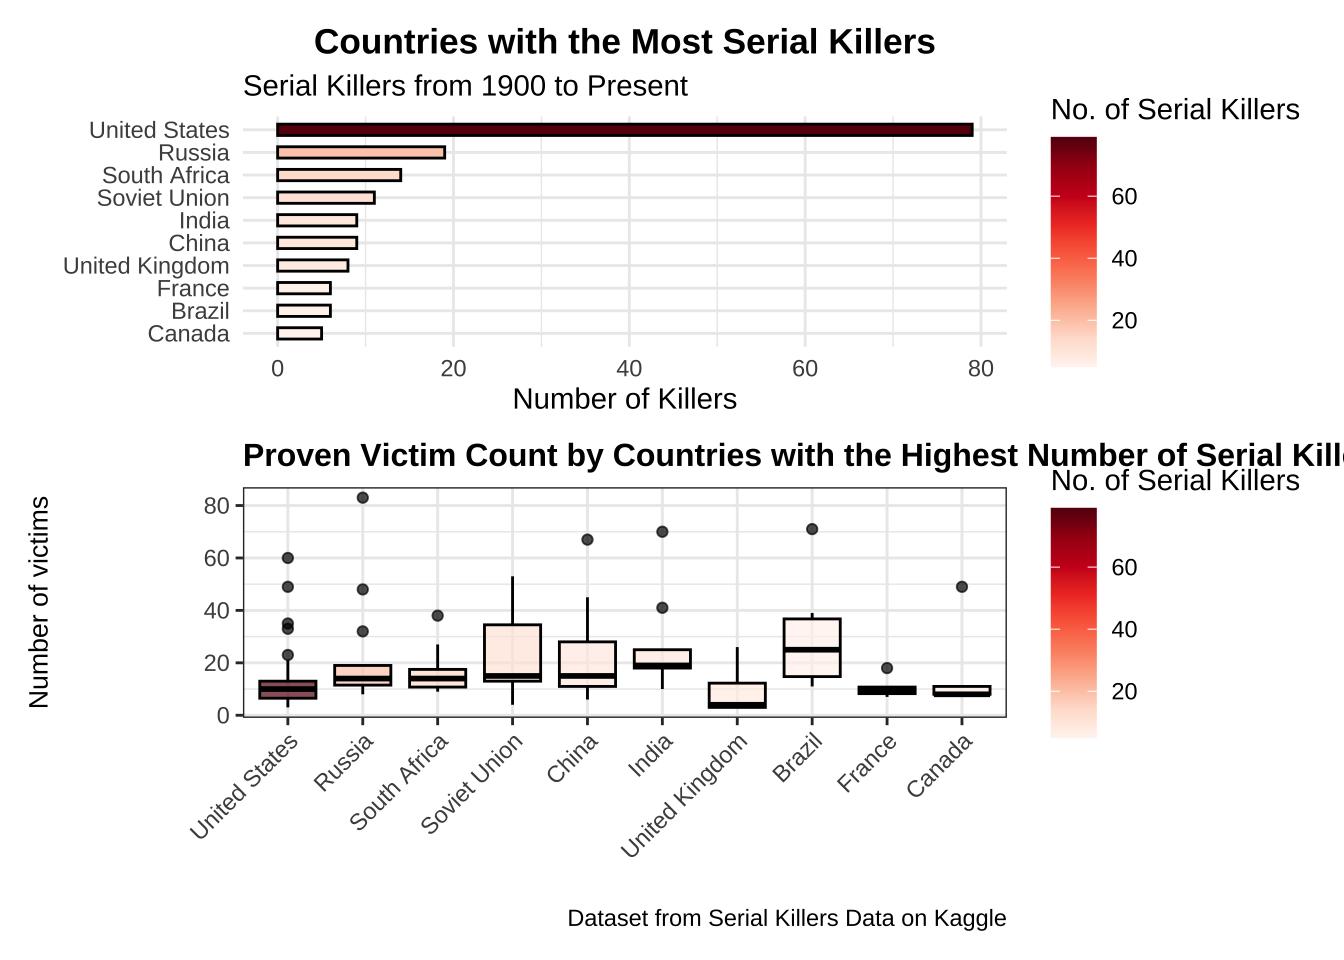
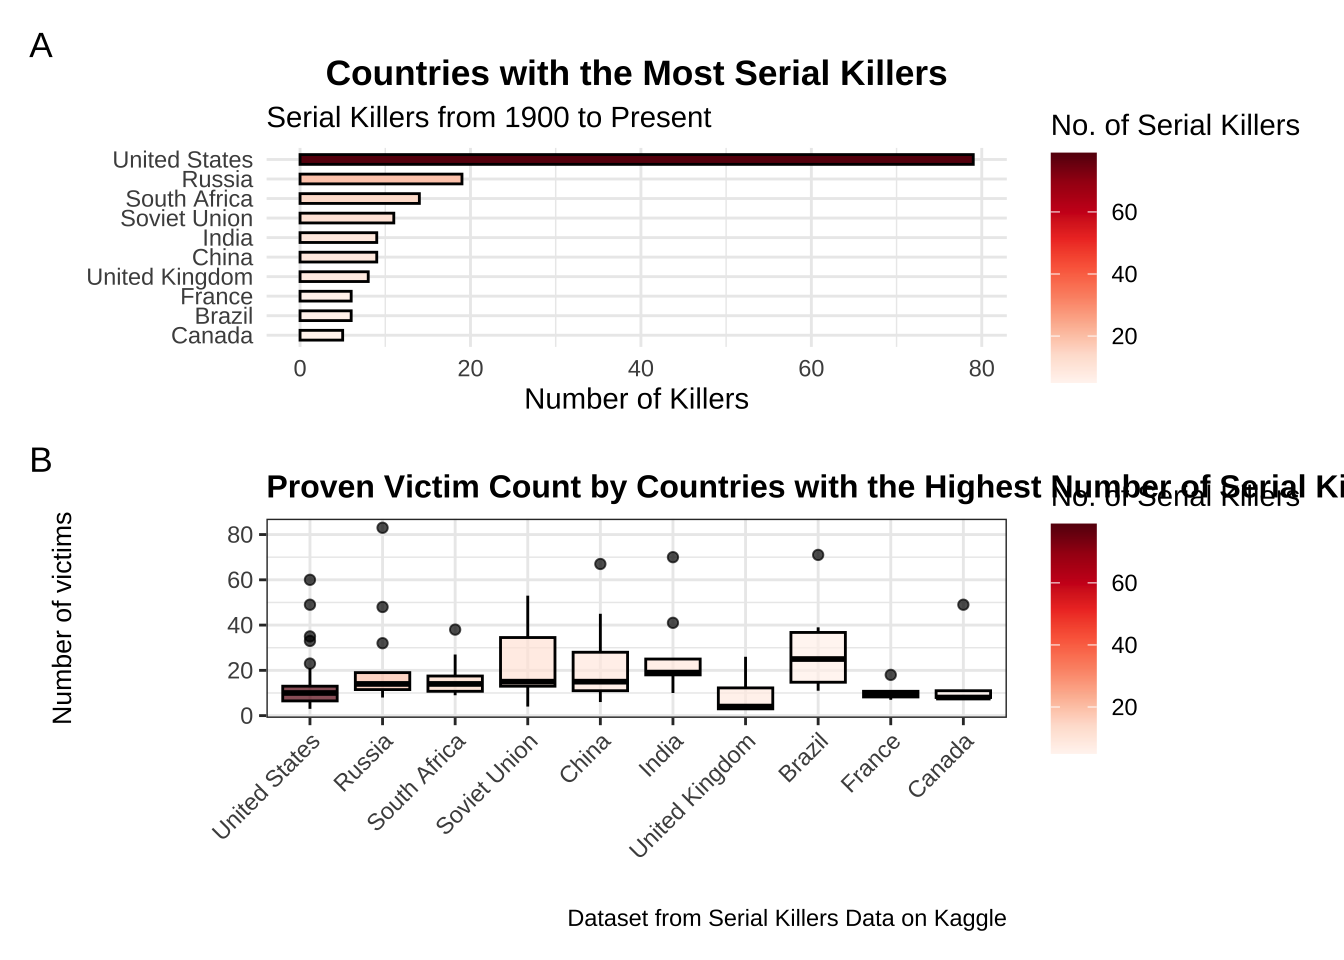
GoodPlot 😇 / BadPlot 🤢

diff --git a/GoodPlotBadPlot/Scripts/GoodPlotBadPlot.html b/GoodPlotBadPlot/Scripts/GoodPlotBadPlot.html
@@ -226,8 +226,9 @@ pre > code.sourceCode > span > a:first-child::before { text-decoration: underlin
 <span id="cb5-14"><a href="#cb5-14" aria-hidden="true" tabindex="-1"></a>  <span class="fu">theme_minimal</span>() <span class="sc">+</span></span>
 <span id="cb5-15"><a href="#cb5-15" aria-hidden="true" tabindex="-1"></a>    <span class="fu">theme</span>(</span>
 <span id="cb5-16"><a href="#cb5-16" aria-hidden="true" tabindex="-1"></a>    <span class="at">plot.title =</span> <span class="fu">element_text</span>(<span class="at">hjust =</span> <span class="fl">0.5</span>, <span class="at">face =</span> <span class="st">"bold"</span>))</span>
-<span id="cb5-17"><a href="#cb5-17" aria-hidden="true" tabindex="-1"></a></span>
-<span id="cb5-18"><a href="#cb5-18" aria-hidden="true" tabindex="-1"></a>Killer_Plot</span></code><button title="Copy to Clipboard" class="code-copy-button"><i class="bi"></i></button></pre></div>
+<span id="cb5-17"><a href="#cb5-17" aria-hidden="true" tabindex="-1"></a><span class="fu">ggsave</span>(<span class="fu">here</span>(<span class="st">"GoodPlotBadPlot"</span>,<span class="st">"Output"</span>,<span class="st">"GoodPlot_A.pdf"</span>))</span>
+<span id="cb5-18"><a href="#cb5-18" aria-hidden="true" tabindex="-1"></a></span>
+<span id="cb5-19"><a href="#cb5-19" aria-hidden="true" tabindex="-1"></a>Killer_Plot</span></code><button title="Copy to Clipboard" class="code-copy-button"><i class="bi"></i></button></pre></div>
 <div class="cell-output-display">
 <div>
 <figure class="figure">
@@ -271,7 +272,7 @@ pre > code.sourceCode > span > a:first-child::before { text-decoration: underlin
 <span id="cb7-16"><a href="#cb7-16" aria-hidden="true" tabindex="-1"></a>  <span class="fu">theme</span>(<span class="at">plot.title=</span><span class="fu">element_text</span>(<span class="at">size=</span><span class="dv">12</span>,</span>
 <span id="cb7-17"><a href="#cb7-17" aria-hidden="true" tabindex="-1"></a>                                <span class="at">face=</span><span class="st">"bold"</span>))<span class="sc">+</span></span>
 <span id="cb7-18"><a href="#cb7-18" aria-hidden="true" tabindex="-1"></a>  <span class="fu">theme</span>(<span class="at">axis.text.x =</span> <span class="fu">element_text</span>(<span class="at">angle=</span><span class="dv">45</span>,<span class="at">hjust =</span> <span class="dv">1</span>))  </span>
-<span id="cb7-19"><a href="#cb7-19" aria-hidden="true" tabindex="-1"></a></span>
+<span id="cb7-19"><a href="#cb7-19" aria-hidden="true" tabindex="-1"></a><span class="fu">ggsave</span>(<span class="fu">here</span>(<span class="st">"GoodPlotBadPlot"</span>,<span class="st">"Output"</span>,<span class="st">"GoodPlot_B.pdf"</span>))</span>
 <span id="cb7-20"><a href="#cb7-20" aria-hidden="true" tabindex="-1"></a>Killer_BoxPlot</span></code><button title="Copy to Clipboard" class="code-copy-button"><i class="bi"></i></button></pre></div>
 <div class="cell-output-display">
 <div>
@@ -285,7 +286,8 @@ pre > code.sourceCode > span > a:first-child::before { text-decoration: underlin
 <div class="cell">
 <div class="sourceCode cell-code" id="cb8"><pre class="sourceCode r code-with-copy"><code class="sourceCode r"><span id="cb8-1"><a href="#cb8-1" aria-hidden="true" tabindex="-1"></a><span class="co">#patched together? necessary?</span></span>
 <span id="cb8-2"><a href="#cb8-2" aria-hidden="true" tabindex="-1"></a>Killer_Plot<span class="sc">/</span>Killer_BoxPlot <span class="sc">+</span></span>
-<span id="cb8-3"><a href="#cb8-3" aria-hidden="true" tabindex="-1"></a> <span class="fu">plot_layout</span>(<span class="at">heights =</span> <span class="fu">c</span>(<span class="dv">5</span>,<span class="dv">5</span>)) <span class="co"># The spacer is half the width of the plots</span></span></code><button title="Copy to Clipboard" class="code-copy-button"><i class="bi"></i></button></pre></div>
+<span id="cb8-3"><a href="#cb8-3" aria-hidden="true" tabindex="-1"></a> <span class="fu">plot_layout</span>(<span class="at">heights =</span> <span class="fu">c</span>(<span class="dv">5</span>,<span class="dv">5</span>))<span class="sc">+</span></span>
+<span id="cb8-4"><a href="#cb8-4" aria-hidden="true" tabindex="-1"></a>  <span class="fu">plot_annotation</span>(<span class="at">tag_levels=</span><span class="st">'A'</span>)</span></code><button title="Copy to Clipboard" class="code-copy-button"><i class="bi"></i></button></pre></div>
 <div class="cell-output-display">
 <div>
 <figure class="figure">
@@ -293,6 +295,7 @@ pre > code.sourceCode > span > a:first-child::before { text-decoration: underlin
 </figure>
 </div>
 </div>
+<div class="sourceCode cell-code" id="cb9"><pre class="sourceCode r code-with-copy"><code class="sourceCode r"><span id="cb9-1"><a href="#cb9-1" aria-hidden="true" tabindex="-1"></a><span class="fu">ggsave</span>(<span class="fu">here</span>(<span class="st">"GoodPlotBadPlot"</span>,<span class="st">"Output"</span>,<span class="st">"GoodPlot_AB.pdf"</span>))</span></code><button title="Copy to Clipboard" class="code-copy-button"><i class="bi"></i></button></pre></div>
 </div>
 <p>This plot is considered a good plot because it follows best data practices as defined in <em>The American Statistician-Data Organization in Spreadsheets</em> by Broman and Woo. These practices include <strong>Good Naming Conventions</strong>, <strong>No Empty Cells</strong>, and <strong>One Item per Cell</strong> and <strong>Save Data as Plain Text Files</strong>. I also created a <strong>Data Dictionary</strong>, to ensure people can understand what exactly the data are referring to. As a visualization, this plot follows the best practices we learned in class. Some of these aspects are</p>
 <ul>
@@ -308,24 +311,24 @@ pre > code.sourceCode > span > a:first-child::before { text-decoration: underlin
 <h1>Bad Plot 🤢</h1>
 <p>Now I will make an atrocity, potentially more frightening than this dataset’s contents. I apologize for what you are about to see.</p>
 <div class="cell">
-<div class="sourceCode cell-code" id="cb9"><pre class="sourceCode r code-with-copy"><code class="sourceCode r"><span id="cb9-1"><a href="#cb9-1" aria-hidden="true" tabindex="-1"></a><span class="co">#Now attempting a bad plot</span></span>
-<span id="cb9-2"><a href="#cb9-2" aria-hidden="true" tabindex="-1"></a>Killers_bad<span class="ot">&lt;-</span>killers_clean <span class="sc">%&gt;%</span></span>
-<span id="cb9-3"><a href="#cb9-3" aria-hidden="true" tabindex="-1"></a>  <span class="fu">filter</span>(<span class="sc">!</span><span class="fu">grepl</span>(<span class="st">"</span><span class="sc">\n</span><span class="st">"</span>, Country)) <span class="sc">%&gt;%</span>    <span class="co">#removing values with multiple countries</span></span>
-<span id="cb9-4"><a href="#cb9-4" aria-hidden="true" tabindex="-1"></a>  <span class="fu">group_by</span>(Country) <span class="sc">%&gt;%</span>              </span>
-<span id="cb9-5"><a href="#cb9-5" aria-hidden="true" tabindex="-1"></a>  <span class="fu">mutate</span>(<span class="at">Killer_Count =</span> <span class="fu">n</span>())<span class="sc">%&gt;%</span>       <span class="co">#add column for serial killers per country</span></span>
-<span id="cb9-6"><a href="#cb9-6" aria-hidden="true" tabindex="-1"></a>  <span class="fu">mutate</span>(<span class="at">StartYear =</span> <span class="fu">as.numeric</span>(<span class="fu">as.character</span>(StartYear)))<span class="sc">%&gt;%</span>    <span class="co">#needed all variables to be numbers</span></span>
-<span id="cb9-7"><a href="#cb9-7" aria-hidden="true" tabindex="-1"></a>  <span class="fu">mutate</span>(<span class="at">EndYear=</span><span class="fu">as.numeric</span>(<span class="fu">as.character</span>(EndYear)))</span>
-<span id="cb9-8"><a href="#cb9-8" aria-hidden="true" tabindex="-1"></a></span>
-<span id="cb9-9"><a href="#cb9-9" aria-hidden="true" tabindex="-1"></a></span>
-<span id="cb9-10"><a href="#cb9-10" aria-hidden="true" tabindex="-1"></a></span>
-<span id="cb9-11"><a href="#cb9-11" aria-hidden="true" tabindex="-1"></a><span class="fu">with</span>(Killers_bad, <span class="fu">text3D</span>(StartYear, Killer_Count, EndYear,        <span class="co">#define all axes</span></span>
-<span id="cb9-12"><a href="#cb9-12" aria-hidden="true" tabindex="-1"></a>  <span class="at">labels =</span> <span class="fu">rownames</span>(Killers_bad), <span class="at">colvar =</span> Proven.victims,        <span class="co">#set legend</span></span>
-<span id="cb9-13"><a href="#cb9-13" aria-hidden="true" tabindex="-1"></a>  <span class="at">col =</span> <span class="fu">heat.colors</span>(<span class="dv">100</span>), <span class="at">theta =</span> <span class="dv">60</span>, <span class="at">phi =</span> <span class="dv">20</span>,                   <span class="co">#choose legend colors</span></span>
-<span id="cb9-14"><a href="#cb9-14" aria-hidden="true" tabindex="-1"></a>  <span class="at">xlab =</span> <span class="st">"Year Start"</span>, <span class="at">ylab =</span> <span class="st">"Killer Count"</span>, <span class="at">zlab =</span> <span class="st">"Year End"</span>,  <span class="co">#labels for axes</span></span>
-<span id="cb9-15"><a href="#cb9-15" aria-hidden="true" tabindex="-1"></a>  <span class="at">main =</span> <span class="st">"Serial Killers Worldwide"</span>, <span class="at">cex =</span> <span class="fl">0.6</span>,                   <span class="co">#Title</span></span>
-<span id="cb9-16"><a href="#cb9-16" aria-hidden="true" tabindex="-1"></a>  <span class="at">bty =</span> <span class="st">"u"</span>, <span class="at">ticktype =</span> <span class="st">"detailed"</span>, <span class="at">d =</span> <span class="dv">2</span>,                        </span>
-<span id="cb9-17"><a href="#cb9-17" aria-hidden="true" tabindex="-1"></a>  <span class="at">clab =</span> <span class="fu">c</span>(<span class="st">"Proven Victims"</span>), <span class="at">adj =</span> <span class="fl">0.5</span>, <span class="at">font =</span> <span class="dv">6</span>,              <span class="co">#Label for legend</span></span>
-<span id="cb9-18"><a href="#cb9-18" aria-hidden="true" tabindex="-1"></a><span class="at">col.panel=</span><span class="st">"blue"</span>,<span class="at">col.grid=</span><span class="st">"black"</span>))                             <span class="co">#commit atrocity</span></span></code><button title="Copy to Clipboard" class="code-copy-button"><i class="bi"></i></button></pre></div>
+<div class="sourceCode cell-code" id="cb10"><pre class="sourceCode r code-with-copy"><code class="sourceCode r"><span id="cb10-1"><a href="#cb10-1" aria-hidden="true" tabindex="-1"></a><span class="co">#Now attempting a bad plot</span></span>
+<span id="cb10-2"><a href="#cb10-2" aria-hidden="true" tabindex="-1"></a>Killers_bad<span class="ot">&lt;-</span>killers_clean <span class="sc">%&gt;%</span></span>
+<span id="cb10-3"><a href="#cb10-3" aria-hidden="true" tabindex="-1"></a>  <span class="fu">filter</span>(<span class="sc">!</span><span class="fu">grepl</span>(<span class="st">"</span><span class="sc">\n</span><span class="st">"</span>, Country)) <span class="sc">%&gt;%</span>    <span class="co">#removing values with multiple countries</span></span>
+<span id="cb10-4"><a href="#cb10-4" aria-hidden="true" tabindex="-1"></a>  <span class="fu">group_by</span>(Country) <span class="sc">%&gt;%</span>              </span>
+<span id="cb10-5"><a href="#cb10-5" aria-hidden="true" tabindex="-1"></a>  <span class="fu">mutate</span>(<span class="at">Killer_Count =</span> <span class="fu">n</span>())<span class="sc">%&gt;%</span>       <span class="co">#add column for serial killers per country</span></span>
+<span id="cb10-6"><a href="#cb10-6" aria-hidden="true" tabindex="-1"></a>  <span class="fu">mutate</span>(<span class="at">StartYear =</span> <span class="fu">as.numeric</span>(<span class="fu">as.character</span>(StartYear)))<span class="sc">%&gt;%</span>    <span class="co">#needed all variables to be numbers</span></span>
+<span id="cb10-7"><a href="#cb10-7" aria-hidden="true" tabindex="-1"></a>  <span class="fu">mutate</span>(<span class="at">EndYear=</span><span class="fu">as.numeric</span>(<span class="fu">as.character</span>(EndYear)))</span>
+<span id="cb10-8"><a href="#cb10-8" aria-hidden="true" tabindex="-1"></a></span>
+<span id="cb10-9"><a href="#cb10-9" aria-hidden="true" tabindex="-1"></a></span>
+<span id="cb10-10"><a href="#cb10-10" aria-hidden="true" tabindex="-1"></a></span>
+<span id="cb10-11"><a href="#cb10-11" aria-hidden="true" tabindex="-1"></a><span class="fu">with</span>(Killers_bad, <span class="fu">text3D</span>(StartYear, Killer_Count, EndYear,        <span class="co">#define all axes</span></span>
+<span id="cb10-12"><a href="#cb10-12" aria-hidden="true" tabindex="-1"></a>  <span class="at">labels =</span> <span class="fu">rownames</span>(Killers_bad), <span class="at">colvar =</span> Proven.victims,        <span class="co">#set legend</span></span>
+<span id="cb10-13"><a href="#cb10-13" aria-hidden="true" tabindex="-1"></a>  <span class="at">col =</span> <span class="fu">heat.colors</span>(<span class="dv">100</span>), <span class="at">theta =</span> <span class="dv">60</span>, <span class="at">phi =</span> <span class="dv">20</span>,                   <span class="co">#choose legend colors</span></span>
+<span id="cb10-14"><a href="#cb10-14" aria-hidden="true" tabindex="-1"></a>  <span class="at">xlab =</span> <span class="st">"Year Start"</span>, <span class="at">ylab =</span> <span class="st">"Killer Count"</span>, <span class="at">zlab =</span> <span class="st">"Year End"</span>,  <span class="co">#labels for axes</span></span>
+<span id="cb10-15"><a href="#cb10-15" aria-hidden="true" tabindex="-1"></a>  <span class="at">main =</span> <span class="st">"Serial Killers Worldwide"</span>, <span class="at">cex =</span> <span class="fl">0.6</span>,                   <span class="co">#Title</span></span>
+<span id="cb10-16"><a href="#cb10-16" aria-hidden="true" tabindex="-1"></a>  <span class="at">bty =</span> <span class="st">"u"</span>, <span class="at">ticktype =</span> <span class="st">"detailed"</span>, <span class="at">d =</span> <span class="dv">2</span>,                        </span>
+<span id="cb10-17"><a href="#cb10-17" aria-hidden="true" tabindex="-1"></a>  <span class="at">clab =</span> <span class="fu">c</span>(<span class="st">"Proven Victims"</span>), <span class="at">adj =</span> <span class="fl">0.5</span>, <span class="at">font =</span> <span class="dv">6</span>,              <span class="co">#Label for legend</span></span>
+<span id="cb10-18"><a href="#cb10-18" aria-hidden="true" tabindex="-1"></a><span class="at">col.panel=</span><span class="st">"blue"</span>,<span class="at">col.grid=</span><span class="st">"black"</span>))                             <span class="co">#commit atrocity</span></span></code><button title="Copy to Clipboard" class="code-copy-button"><i class="bi"></i></button></pre></div>
 <div class="cell-output-display">
 <div>
 <figure class="figure">
@@ -333,6 +336,7 @@ pre > code.sourceCode > span > a:first-child::before { text-decoration: underlin
 </figure>
 </div>
 </div>
+<div class="sourceCode cell-code" id="cb11"><pre class="sourceCode r code-with-copy"><code class="sourceCode r"><span id="cb11-1"><a href="#cb11-1" aria-hidden="true" tabindex="-1"></a><span class="fu">ggsave</span>(<span class="fu">here</span>(<span class="st">"GoodPlotBadPlot"</span>,<span class="st">"Output"</span>,<span class="st">"BadPlot.pdf"</span>))</span></code><button title="Copy to Clipboard" class="code-copy-button"><i class="bi"></i></button></pre></div>
 </div>
 <p>There are many things that makes this plot a disgrace. First of all, it is <strong><em>3D</em></strong>. As we were taught in class, this is a general no-no for data visualization. It is unnecessarily complex and rarely displays data accurately. I also have two time metrics plotted on different axes, which is not intuitive at all. There are far too many variables beig analyzed here, with 3 axes and a scaled legend. My axees are not legible, and they are all titled but the titles aren’t all legible either. Given the amount of metrics I have, the numbers within the graph are also corresponding to relationships between axes, no longer displaying the value those labels should represent. Lastly, my colors. There’s just no reason for it to be bright blue. It doesn’t contribute positively to the aestheitcs, it doesn’t correlate to data, and it’s just distracting.</p>
 </section>
